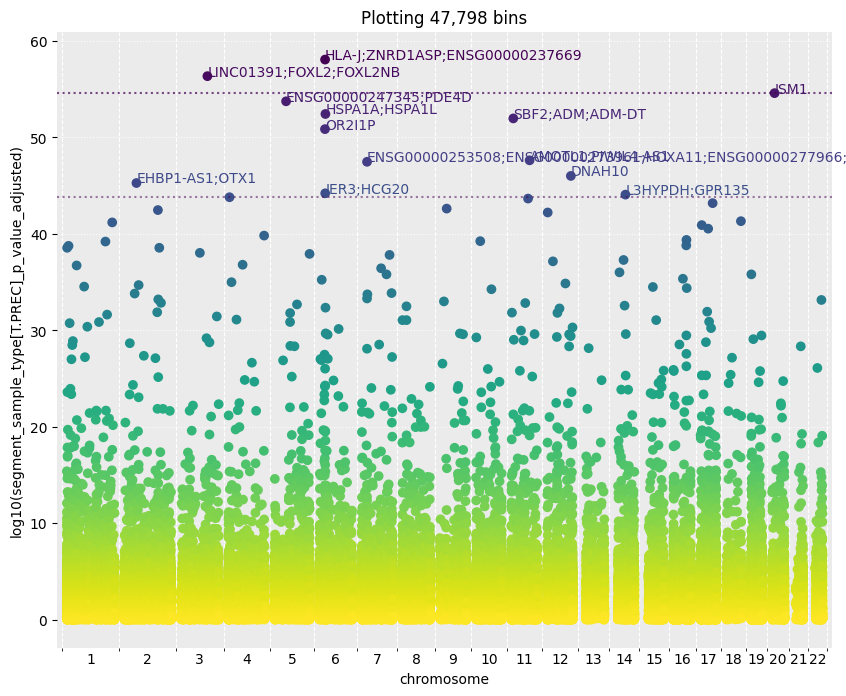
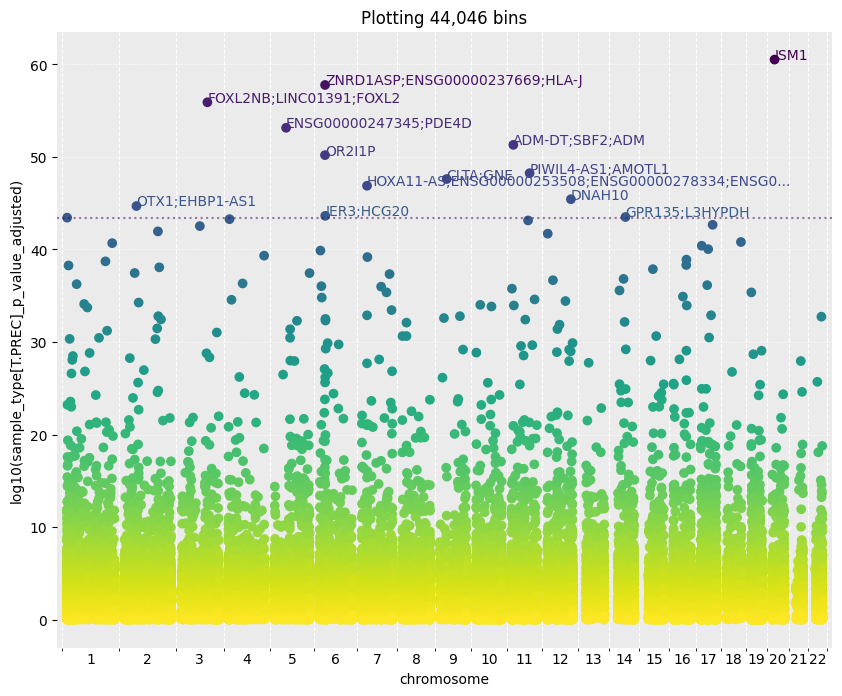
small visualization and doc updates

diff --git a/pylluminator/visualizations.py b/pylluminator/visualizations.py
@@ -30,7 +30,7 @@ from pylluminator.utils import merge_series_values
 LOGGER = get_logger()
 
 def _get_colors(sheet: pd.DataFrame, sample_label_name: str,
-                color_column: str | None, group_column: str | list[str] | None = None, cmap_name: str = 'Spectral') -> (list, dict | None):
+                color_column: str | None, group_column: str | list[str] | None = None, cmap_name: str = 'Spectral_r') -> tuple[list, dict | None]:
     """Define the colors to use for each sample, depending on the columns used to categorized them.
 
     :param sheet: sample sheet data frame
@@ -42,7 +42,7 @@ def _get_colors(sheet: pd.DataFrame, sample_label_name: str,
     :param color_column: name of the column of the sample sheet to use for color. If None, the function will return empty objects.
     :type color_column: str | None
 
-    :param cmap_name: name of the matplotlib color map to use. Default: spectral
+    :param cmap_name: name of the matplotlib color map to use. Default: Spectral_r
     :type cmap_name: str
 
     :return: the list of legend handles and a dict of color categories, with keys being the values of color_column
@@ -627,11 +627,9 @@ def get_nb_probes_per_chr_and_type(samples: Samples) -> tuple[pd.DataFrame, pd.D
     manifest = samples.annotation.probe_infos[['probe_id', 'chromosome', 'type']].drop_duplicates()
     manifest['chromosome'] = merge_alt_chromosomes(manifest['chromosome'])
 
-    # for name, masked in [('not masked', True), ('masked', False)]:
     masked_probe_ids = samples.masks.get_mask(sample_label=samples.sample_labels).get_level_values('probe_id')
     manifest_masked_probes = manifest.probe_id.isin(masked_probe_ids)
 
-    # for name, probes in [('not masked', unmasked_probes), ('masked', masked_probes)]:
     chrm_and_type = manifest.loc[manifest_masked_probes]
     chromosome_df['masked'] = chrm_and_type.groupby('chromosome', observed=True).count()['probe_id']
     type_df['masked'] = chrm_and_type.groupby('type', observed=False).count()['probe_id']
@@ -639,12 +637,13 @@ def get_nb_probes_per_chr_and_type(samples: Samples) -> tuple[pd.DataFrame, pd.D
     chromosome_df['not masked'] = chrm_and_type.groupby('chromosome', observed=True).count()['probe_id']
     type_df['not masked'] = chrm_and_type.groupby('type', observed=False).count()['probe_id']
 
-    # chromosome_df['masked'] = chromosome_df['masked'] - chromosome_df['not masked']
-    # type_df['masked'] = type_df['masked'] - type_df['not masked']
-
     # get the chromosomes numbers to order data frame correctly
     chromosome_df['chr_id'] = get_chromosome_number(chromosome_df.index.tolist())
     chromosome_df = chromosome_df.sort_values('chr_id').drop(columns='chr_id')
+
+    type_df.index = [f'Type {i}' for i in type_df.index]
+    type_df.index.name = 'Probe type'
+    chromosome_df.index.name = 'Chromosome number'
 
     return chromosome_df, type_df
 
@@ -671,19 +670,27 @@ def plot_nb_probes_and_types_per_chr(sample: Samples, title: None | str = None, 
     plt.style.use('ggplot')
     fig, axes = plt.subplots(2)
 
-    chromosome_df.plot.bar(stacked=True, figsize=figsize, ax=axes[0])
-    type_df.plot.bar(stacked=True, figsize=figsize, ax=axes[1])
-
-    for container in axes[0].containers:
-        axes[0].bar_label(container, label_type='center', rotation=90, fmt='{:,.0f}')
-
-    for container in axes[1].containers:
-        axes[1].bar_label(container, label_type='center', fmt='{:,.0f}')
+    # make 'masked' bar blue and 'not masked' orange
+    chromosome_df.plot.bar(stacked=True, figsize=figsize, ax=axes[0], color=['#1f77b4', '#F8766D'] )
+    type_df.plot.bar(stacked=True, figsize=figsize, ax=axes[1], color=[ '#1f77b4', '#F8766D',] )
 
     if title is None:
         title = f'Number of probes per chromosome and type for {sample.nb_samples} samples'
 
     fig.suptitle(title)
+
+    # rotate x labels for better readability
+    plt.setp(axes[0].get_xticklabels(), rotation=0, ha='center')
+    plt.setp(axes[1].get_xticklabels(), rotation=0, ha='center')
+
+    # thousand separator for y axis
+    axes[0].yaxis.set_major_formatter('{x:,.0f}')
+    axes[1].yaxis.set_major_formatter('{x:,.0f}')
+    axes[0].set_ylabel('Number of probes')
+    axes[1].set_ylabel('Number of probes')
+
+    #add space between plots
+    plt.subplots_adjust(hspace=0.3)
 
     if save_path is not None:
         fig.savefig(os.path.expanduser(save_path))
@@ -822,7 +829,7 @@ def plot_betas_heatmap(samples: Samples, apply_mask:bool=True,
         betas.columns = new_labels
 
     # common parameters to clustermap and heatmap
-    heatmap_params = {'yticklabels': True, 'xticklabels': True, 'cmap': 'Spectral', 'vmin': 0, 'vmax': 1}
+    heatmap_params = {'yticklabels': True, 'xticklabels': True, 'cmap': 'Spectral_r', 'vmin': 0, 'vmax': 1}
     legend_params = {'handler_map': {str: _LegendTitle({'fontweight': 'bold'})}, 'loc': 'upper right',
                      'bbox_to_anchor': (0, 1)}
     betas = betas.T
@@ -972,7 +979,7 @@ def plot_dmp_heatmap(dm: DM, contrast: str | None = None,
     betas = betas.loc[sorted_probe_idxs].T
     
     # common parameters to clustermap and heatmap
-    heatmap_params = {'yticklabels': True, 'xticklabels': True, 'cmap': 'Spectral', 'vmin': 0, 'vmax': 1}
+    heatmap_params = {'yticklabels': True, 'xticklabels': True, 'cmap': 'Spectral_r', 'vmin': 0, 'vmax': 1}
     legend_params = {'handler_map': {str: _LegendTitle({'fontweight': 'bold'})}, 'loc': 'upper right', 'bbox_to_anchor': (0, 1)}
 
     if drop_na:
@@ -1007,7 +1014,7 @@ def plot_dmp_heatmap(dm: DM, contrast: str | None = None,
 def _manhattan_plot(data_to_plot: pd.DataFrame, segments_to_plot: pd.DataFrame = None, chromosome_col='chromosome',
                     x_col='start', y_col='p_value', log10=False, figsize:tuple[float, float]=(10,8),
                     annotation: Annotations | None = None, annotation_col: str = 'genes',
-                    medium_threshold: float | None = None, high_threshold: float | None = None,
+                    sig_threshold: float | None = None, 
                     title: None | str = None, draw_significance=False, save_path: None | str=None) -> None:
     """Display a Manhattan plot of the given data.
 
@@ -1034,13 +1041,9 @@ def _manhattan_plot(data_to_plot: pd.DataFrame, segments_to_plot: pd.DataFrame =
         significant threshold. Must be a column in the Annotation data. Default: None
     :type annotation_col: str | None
 
-    :param medium_threshold: set the threshold used for displaying annotation (and significance line if d
+    :param sig_threshold: set the threshold used for displaying annotation (and significance line if d
         raw_significance is True). If None, takes the value of the 100th probe. Default: None
-    :type medium_threshold: float
-
-    :param high_threshold: set the threshold for the higher significance line (drawn if draw_significance is True). If
-        None, takes the value of the 20th probe. Default: None
-    :type high_threshold: float
+    :type sig_threshold: float
 
     :param log10: apply -log10 on the value column. Default: True
     :type log10: bool
@@ -1098,12 +1101,9 @@ def _manhattan_plot(data_to_plot: pd.DataFrame, segments_to_plot: pd.DataFrame =
     if log10:
         data_to_plot[y_col] = -np.log10(data_to_plot[y_col])
 
-    if high_threshold is None or medium_threshold is None:
+    if sig_threshold is None:
         sorted_pvals = data_to_plot[y_col].sort_values()
-        if high_threshold is None:
-            high_threshold = sorted_pvals.iloc[-20]
-        if medium_threshold is None:
-            medium_threshold = sorted_pvals.iloc[-100]
+        sig_threshold = sorted_pvals.iloc[-100]
 
     # define colormap and limits
     v_max = np.max(data_to_plot[y_col])
@@ -1130,6 +1130,11 @@ def _manhattan_plot(data_to_plot: pd.DataFrame, segments_to_plot: pd.DataFrame =
                 data_to_plot = data_to_plot.reset_index()
             else:
                 data_to_plot = data_to_plot.join(gene_info.set_index('probe_id'))
+            # shorten annotations that are too long
+            long_anno_idxs = gene_info[annotation_col].str.len() > 50
+            gene_info.loc[long_anno_idxs, annotation_col] = gene_info.loc[long_anno_idxs, annotation_col].str.slice(0, 47) + '...'
+            
+
     data_to_plot = data_to_plot.reset_index(drop=True).drop_duplicates()
     # sort by chromosome and make the column a category
     data_to_plot = data_to_plot.sort_values(['chr_id', x_col]).astype({'chr_id': 'category'})
@@ -1138,7 +1143,7 @@ def _manhattan_plot(data_to_plot: pd.DataFrame, segments_to_plot: pd.DataFrame =
     data_to_plot_grouped = data_to_plot.groupby('chr_id', observed=True)
 
     # plot each chromosome scatter plot with its assigned color
-    for num, (name, group) in enumerate(data_to_plot_grouped):
+    for (_, group) in data_to_plot_grouped:
         # add margin to separate a bit the different groups; otherwise small groups won't show
         group[x_col] = chrom_start + group[x_col] + margin
         chrom_end = max(group[x_col]) + margin
@@ -1163,13 +1168,13 @@ def _manhattan_plot(data_to_plot: pd.DataFrame, segments_to_plot: pd.DataFrame =
 
         # draw annotations for probes that are over the threshold, if annotation_col is set
         if annotation_col in group.columns:
-            if log10:
-                indexes_to_annotate = group[y_col] > medium_threshold
-            else:
-                indexes_to_annotate = group[y_col] < medium_threshold
+            indexes_to_annotate = group[y_col] > sig_threshold if log10 else group[y_col] < sig_threshold
             annot_col_idx = group.columns.get_loc(annotation_col)
             x_col_idx = group.columns.get_loc(x_col)
             y_col_idx = group.columns.get_loc(y_col)
+            # shorten annotations that are too long
+            long_anno_idxs = group[annotation_col].str.len() > 50
+            group.loc[long_anno_idxs, annotation_col] = group.loc[long_anno_idxs, annotation_col].str.slice(0, 47) + '...'
             for row in group[indexes_to_annotate].itertuples(index=False):
                 plt.annotate(row[annot_col_idx], (row[x_col_idx]+ 0.03, row[y_col_idx] + 0.03), c=cmap(row[y_col_idx] / v_max), annotation_clip=True)
 
@@ -1182,8 +1187,7 @@ def _manhattan_plot(data_to_plot: pd.DataFrame, segments_to_plot: pd.DataFrame =
     if draw_significance:
         x_start = 0 - margin
         x_end =  chrom_end + margin
-        plt.plot([x_start, x_end], [high_threshold, high_threshold], c=cmap(high_threshold), alpha=0.7, ls=':')
-        plt.plot([x_start, x_end], [medium_threshold, medium_threshold], ls=':', c=cmap(medium_threshold), alpha=0.5)
+        plt.plot([x_start, x_end], [sig_threshold, sig_threshold], ls=':', c=cmap(sig_threshold), alpha=0.5)
 
     # grids style and plot limits
     ax.xaxis.grid(True, which='minor', color='white', linestyle='--')
@@ -1219,7 +1223,7 @@ def manhattan_plot_dmr(dm: DM, contrast: str,
                        chromosome_col='chromosome', x_col='start', y_col='p_value',
                        annotation_col='genes', log10=True,
                        draw_significance=True, figsize:tuple[float, float]=(10, 8),
-                       medium_threshold: float | None = None, high_threshold: float | None = None,
+                       sig_threshold: float | None = None, 
                        title: None | str = None, save_path: None | str=None) -> None:
     """Display a Manhattan plot of the given DMR data, designed to work with the dataframe returned by get_dmrs()
 
@@ -1242,13 +1246,9 @@ def manhattan_plot_dmr(dm: DM, contrast: str,
         significant threshold. Must be a column in the Annotation data. Default: None
     :type annotation_col: str | None
 
-    :param medium_threshold: set the threshold used for displaying annotation (and significance line if
+    :param sig_threshold: set the threshold used for displaying annotation (and significance line if
         raw_significance is True). If None, takes the value of the 100th probe. Default: None
-    :type medium_threshold: float | None
-
-    :param high_threshold: set the threshold for the higher significance line (drawn if draw_significance is True). If
-        None, takes the value of the 20th probe. Default: None
-    :type high_threshold: float | None
+    :type sig_threshold: float | None
 
     :param log10: apply -log10 on the value column. Default: True
     :type log10: bool
@@ -1276,8 +1276,8 @@ def manhattan_plot_dmr(dm: DM, contrast: str,
     data = dm.dmr.join(dm.segments.reset_index().set_index('segment_id'))
     return _manhattan_plot(data_to_plot=data, chromosome_col=chromosome_col, y_col=f'{contrast}_{y_col}_adjusted',
                            x_col=x_col, draw_significance=draw_significance, annotation=dm.samples.annotation,
-                           annotation_col=annotation_col, medium_threshold=medium_threshold,
-                           high_threshold=high_threshold, figsize=figsize, log10=log10, title=title, save_path=save_path)
+                           annotation_col=annotation_col, sig_threshold=sig_threshold,
+                           figsize=figsize, log10=log10, title=title, save_path=save_path)
 
 
 def manhattan_plot_cns(data_to_plot: pd.DataFrame, segments_to_plot=None,
@@ -1408,7 +1408,7 @@ def visualize_gene(samples: Samples, gene_name: str, apply_mask: bool=True, padd
 
     ################## PLOT LINKS BETWEEN TRANSCRIPTS AND BETAS
 
-    # chromosome, chr-transcript links, transcripts, transcript-betas lings, betas heatmap
+    # chromosome, chr-transcript links, transcripts, transcript-betas links, betas heatmap
     nb_transcripts = len(set(gene_data.index))
     height_ratios = [0.02, 0.05, 0.02*nb_transcripts, 0.05, 0.02*len(gene_betas.columns)]
     nb_plots = len(height_ratios)
@@ -1437,14 +1437,14 @@ def visualize_gene(samples: Samples, gene_name: str, apply_mask: bool=True, padd
         sheet.index.name = label
         heatmap_data.index = new_labels
 
-    heatmap_params = {'yticklabels': True, 'xticklabels': True, 'cmap': 'Spectral', 'vmin': 0, 'vmax': 1}
+    heatmap_params = {'yticklabels': True, 'xticklabels': True, 'cmap': 'Spectral_r', 'vmin': 0, 'vmax': 1}
 
     if keep_na:
         fig, axes = plt.subplots(figsize=figsize, nrows=nb_plots, height_ratios=height_ratios)
         sns.heatmap(heatmap_data, ax=axes[-1], cbar=False, **heatmap_params)
         if row_factors is not None:
             LOGGER.warning('Parameter row_factors is ignored when keep_na is True')
-            row_factors = None
+            row_factors = None        
     else:
         handles, labels = [], []
         # convert categories to colors and get legends if specified
@@ -1457,7 +1457,7 @@ def visualize_gene(samples: Samples, gene_name: str, apply_mask: bool=True, padd
             subset = sheet[row_factors]
             row_factors, handles, labels = _convert_df_values_to_colors(subset, row_legends)
         dendrogram_ratio = 0.05
-        g = sns.clustermap(heatmap_data, figsize=figsize, cbar_pos=None, col_cluster=False, row_colors=row_factors,
+        g = sns.clustermap(heatmap_data, cbar_pos=None, figsize=figsize,  col_cluster=False, row_colors=row_factors,
                            dendrogram_ratio=(dendrogram_ratio, 0), **heatmap_params)
         if len(handles) > 0 and len(labels) > 0:
             plt.legend(handles=handles, labels=labels, handler_map={str: _LegendTitle({'fontweight': 'bold'})},
@@ -1467,6 +1467,14 @@ def visualize_gene(samples: Samples, gene_name: str, apply_mask: bool=True, padd
         gs2 = gridspec.GridSpec(nb_plots - 1, 1, left=dendrogram_ratio + 0.005, bottom=shift_ratio,
                                 height_ratios=height_ratios[:-1])
         axes = [g.fig.add_subplot(gs) for gs in gs2]
+        cbar_ax = axes[-1].inset_axes([-0.2, -0.7, 0.03, 0.6])
+
+        # add a colorbar for the heatmap on the left of the heatmap
+        norm = plt.Normalize(vmin=0, vmax=1)
+        sm = plt.cm.ScalarMappable(cmap='Spectral_r', norm=norm)
+        sm.set_array([])
+        cbar = g.fig.colorbar(sm, cax=cbar_ax)
+        cbar.set_label('beta value', rotation=270, labelpad=15)
 
     ################## plot chromosome and chromosome-transcript links
 

diff --git a/pylluminator/samples.py b/pylluminator/samples.py
@@ -1612,10 +1612,10 @@ class Samples:
                                     precision=precision, na_cov_action=na_cov_action)
 
 
-def read_idata(sample_sheet_df: pd.DataFrame, datadir: str | Path) -> (dict, str):
+def read_idata(sample_sheet_df: pd.DataFrame, datadir: str | Path) -> tuple[dict, str]:
     """
     Reads IDAT files for each sample in the provided sample sheet, organizes the data by sample name and channel,
-    and returns a dictionary with the IDAT data.
+    and returns a dictionary with the IDAT data and the label column name.
 
     :param sample_sheet_df: A DataFrame containing sample information, including columns for 'sample_label', 'sample_id',
         'sentrix_id', and 'sentrix_position'. Each row corresponds to a sample in the experiment.
@@ -1624,10 +1624,11 @@ def read_idata(sample_sheet_df: pd.DataFrame, datadir: str | Path) -> (dict, str
     :param datadir: The directory where the IDAT files are located.
     :type datadir: str
 
-    :return: A dictionary where the keys are sample names (from the 'sample_label' column in `sample_sheet_df`), and the
+    :return: A tuple of a dictionary (samples) and a string (label column name).
+        The samples dictionary keys are sample names (from the 'sample_label' column in `sample_sheet_df`), and the
         values are dictionaries mapping channel names (from `Channel`) to their respective IDAT data (as DataFrame
         objects, derived from the `IdatDataset` class).
-    :rtype: dict
+    :rtype: (dict, str)
 
     Notes:
         - The function searches for IDAT files by sample ID and channel. If no files are found, it attempts to search
@@ -1636,7 +1637,7 @@ def read_idata(sample_sheet_df: pd.DataFrame, datadir: str | Path) -> (dict, str
         - If no matching files are found, an error is logged and the sample is skipped.
 
     Example:
-        idata = read_idata(sample_sheet_df, '/path/to/data')
+        idata, label_column = read_idata(sample_sheet_df, '/path/to/data')
     """
     idata = {}
     label_column = 'sample_id'

diff --git a/pylluminator/cnv.py b/pylluminator/cnv.py
@@ -136,7 +136,7 @@ def copy_number_variation(samples: Samples,
 
 def copy_number_segmentation(samples: Samples,
                              cnv_df: pd.DataFrame,
-                             cnv_column_name: str) -> (pr.PyRanges, pd.DataFrame, pd.DataFrame):
+                             cnv_column_name: str) -> tuple[pr.PyRanges, pd.DataFrame, pd.DataFrame]:
     """With the output dataframe of copy_number_variation, group the genome in segments with similar CNV.
 
     :param samples: samples to be analyzed

diff --git a/tests/test_visualizations.py b/tests/test_visualizations.py
@@ -134,8 +134,7 @@ def test_dmr_plot(test_samples):
     assert os.path.exists('dmr_plot.png')
     os.remove('dmr_plot.png')
 
-    manhattan_plot_dmr(my_dms, contrast=my_dms.contrasts[0], save_path='dmr_plot.png',  title='juju',
-                       medium_threshold=0.1, high_threshold=0.2)
+    manhattan_plot_dmr(my_dms, contrast=my_dms.contrasts[0], save_path='dmr_plot.png',  title='juju', sig_threshold=0.1)
     assert os.path.exists('dmr_plot.png')
     os.remove('dmr_plot.png')
 
